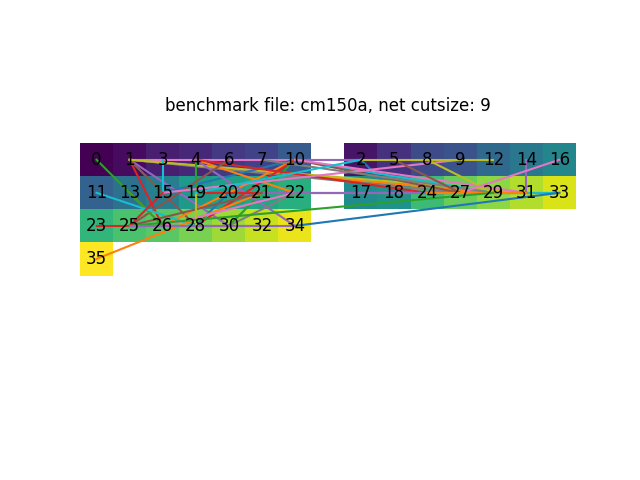
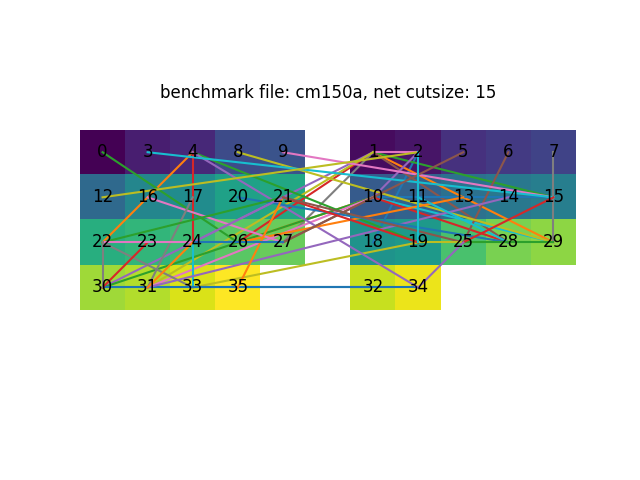
make some change to make partition balanced

Changed region(s): [[0.125, 0.1562, 0.9062, 0.6562]]

diff --git a/project/refractor/ga.py b/project/refractor/ga.py
@@ -4,6 +4,48 @@ import os
 import matplotlib.pyplot as plt
 import matplotlib.patches as patches
 from consolemenu import SelectionMenu
+import math
+
+def is_balanced(chromosome):
+    """ check the if partition represented by chromosome is balanced
+
+    balance: the difference between the amount of 1s and 0s should be at most 1.
+
+    Args:
+        chromosome
+    Returns:
+        true if the chromosome is balanced
+        false if the chromosome is unbalanced
+    """
+    
+    return abs(np.count_nonzero(chromosome) - len(chromosome) // 2) <= 1
+
+def adjust(chromosome):
+    """ adjust gene values of chromosome to make it balance
+
+    mutate genes until it's balanced
+
+    Args:
+        chromosome
+    """
+
+    num_ones = np.count_nonzero(chromosome)
+    num_zeros = len(chromosome) - num_ones
+    zero_indices = [i for i in range(len(chromosome)) if chromosome[i] == 0]
+    one_indices = [i for i in range(len(chromosome)) if chromosome[i] == 1]
+    num_adjustment = len(chromosome) // 2 - min(num_ones, num_zeros) 
+    if num_ones < num_zeros:
+        # we need more one => flip zero to one
+        index_list = np.random.choice(zero_indices, size=num_adjustment, replace=False)
+        for idx in index_list:
+            chromosome[idx] = 1
+    elif num_ones > num_zeros:
+        # we need more zero => flip one to zero
+        index_list = np.random.choice(one_indices, size=num_adjustment, replace=False)
+        for idx in index_list:
+            chromosome[idx] = 0
+
+
 
 def plot(filename, best_cutsize, best_assignment):
     """plot best assignment using matplot
@@ -26,7 +68,7 @@ def plot(filename, best_cutsize, best_assignment):
 
     left = best_assignment[0]
     right = best_assignment[1]
-    max_nodes_per_side = num_nodes
+    max_nodes_per_side = num_nodes // 2 + 2
     num_rows = max_nodes_per_side if max_nodes_per_side <= 16 else math.ceil(math.sqrt(max_nodes_per_side))
     num_cols = 1 if max_nodes_per_side <= 16 else math.ceil(max_nodes_per_side / num_rows) + 1
     m = [[np.nan] * (2 * num_cols + 1) for _ in range(num_rows)]
@@ -99,6 +141,7 @@ def list_files(directory="ass3_files/"):
     """
     file_list =  [file for file in os.listdir(directory) if os.path.isfile(os.path.join(directory, file))]
     return file_list
+
 def console_menu(select_list):
     """create a selection menu for selecting benchmark file in the console
     Args:
@@ -144,7 +187,7 @@ def generate_assignment(chromosome):
     return [left, right]   
 
 def generate_chromosome(length):
-    """ generate and return a chromosome list(a list of genes(0 or 1)) with given length
+    """ generate and return a balanced chromosome list(a list of genes(0 or 1)) with given length
 
 using np.randint to generate chromosome 1d array
 
@@ -154,8 +197,10 @@ using np.randint to generate chromosome 1d array
     Returns:
         chromosome: a generated chromosome list consists of 0 and 1
     """
-
-    return np.random.randint(2, size=length)
+    chromosome = [0] * (length // 2) + [1] * (length - length//2)
+    chromosome = np.asarray(chromosome)
+    np.random.shuffle(chromosome)
+    return chromosome
 
 def generate_population(size, chromosome_length):
     """generate and return a population 1d array.
@@ -170,6 +215,18 @@ def generate_population(size, chromosome_length):
     """
     population = [generate_chromosome(chromosome_length) for _ in range(size)]
     return np.array(population)
+
+def crossover_with_complement(a, b):
+    """single point crossover with complement. return two offspring after crossover of chromosome a and b
+    
+    given chromosome a and b with crossover point to p devides each of them to two part a[a1:a2] b[b1:b2]
+    offspring_a = [a1:b2]
+    offspring_b = [a1: complement of b2]
+    """
+    p = random.randint(0, len(a) - 1) # a random crossover point
+    a_new = np.append(a[:p], b[p:])
+    b_new = np.append(a[:p], 1 - b[p:])
+    return a_new, b_new
 
 def single_point_crossover(a, b):
     """ single point crossover of two chromosomes 
@@ -190,7 +247,7 @@ def single_point_crossover(a, b):
         return a, b
 
     # pick a random position to do crossover
-    p = random.randint(1, length - 1) # a random crossover point
+    p = random.randint(0, length - 1) # a random crossover point
     a_new = np.append(a[:p], b[p:])
     b_new = np.append(b[:p], a[p:])
     return a_new, b_new
@@ -266,6 +323,7 @@ def population_fitness(population, fitness_func):
     return sum([fitness_func(chromosome) for chromosome in population])
 
 def ga(
+    population_size,
     populate_func,
     fitness_func,
     cutsize_limit,
@@ -278,6 +336,7 @@ def ga(
     run evolution and return the final population after evolution
     
     Args:
+        population_size: size of population
         pupulated_func: function for generating population
         unfitness_func: function for calculating unfitness(cutsize)
         cutsize_limit: the limit of cutsize. we exit evolution if we reach the limit(best cutsize <= unfitness_limit)
@@ -288,14 +347,13 @@ def ga(
     Returns:
         final population after evolution
     """
-    population = populate_func(size=50, chromosome_length=num_nodes)
+    population = populate_func(size=population_size, chromosome_length=num_nodes)
 
     for i in range(generation_limit):
         
         # sort population. fitness from high to low
         population = sorted(population, key= lambda chromosome : calc_fitness(chromosome, population))
         print("generation", i)
-        # print("population", population)
 
         # stop looping if cutsize <= cutsize_limit (default is 0)
         if calc_chromo_cutsize(population[0]) <= cutsize_limit:
@@ -312,6 +370,8 @@ def ga(
             # mutation
             offspring_a = mutation_func(offspring_a)
             offspring_b = mutation_func(offspring_b)
+            if not is_balanced(offspring_a): adjust(offspring_a)
+            if not is_balanced(offspring_b): adjust(offspring_b)
             next_generation.extend([offspring_a, offspring_b])
         
         # update population
@@ -335,6 +395,7 @@ if __name__ == "__main__":
     parse_file(filepath)
 
     final_population = ga(
+        population_size=10,
         populate_func=generate_population,
         fitness_func=calc_fitness,
         cutsize_limit=0,
@@ -343,8 +404,8 @@ if __name__ == "__main__":
         mutation_func=mutation,
         generation_limit=100)
     final_population.sort(key= calc_chromo_cutsize)
-    best_chromesome = final_population[0]
-    best_assignment = generate_assignment(best_chromesome)
+    best_chromosome = final_population[0]
+    best_assignment = generate_assignment(best_chromosome)
     best_cutsize = calc_net_cutsize(best_assignment)
     print('''
     FINAL best assignment: {}

diff --git a/project/report/report_draft.md b/project/report/report_draft.md
@@ -11,3 +11,73 @@
 3 it give me great result when I make the population size larger(10 -> 100), and generation time is 100. but it is really slow. it took a long time for small benchmark file like `cm82a`
 
 ![cm82a](report_draft.assets/cm150a.png)
+
+4 runtime does not have many different between different amount of nodes. but it does take a long time to evolve.
+
+
+
+## crossover
+
+there are two types of crossover. we execute each type of them to generate offspring 1 and 2
+
+a[a1:a2] b[b1:b2]
+
+1. normal crossover 
+
+   offspring1 = [a1:b2]
+
+2. second crossover
+
+   offspring2 = [a1: negate(b2)]
+
+we only do single point crossover as study found that multipoint crossover degrades the performance
+
+## mutation
+
+just normal approach
+
+probability could be set to a lower value
+
+
+
+## check if it’s balanced
+
+left side and right side must be balanced
+
+so num of 1 and num of 0 should be the same or at most 1 difference
+
+### generate the chromosome
+
+I think we need to generate balanced chromosome at first
+
+### adjustment after crossover and mutation
+
+after crossover and mutation, the chromosome might be unbalanced. so  we randomly select some points of genes and flip them to meet the required the number of 0s and 1s.
+
+the adjustment itself is some kind of mutation.
+
+## local improvement
+
+todo
+
+## Replacement Scheme
+
+### loose replacement scheme
+
+replace the worst member of the  population with the new offspring => converge  quickly at the expense of loosing diversity’ in the population
+
+### strict replacement scheme
+
+can maintain a high diversity for a long time and consequently can get good solutions at the expense of time
+
+### replacement scheme in the paper
+
+## stopping criterion
+
+> The stopping criterion that GBA used  is to stop when 80% of the population is occupied by solutions with the same quality, whose chromosomes are not  necessarily the same. In any case, no more than 3,000 iterations are allowed. Typical numbers of iterations are from  150 to 900.
+
+
+
+## pre-processing
+
+haven’t figure out this part yet
